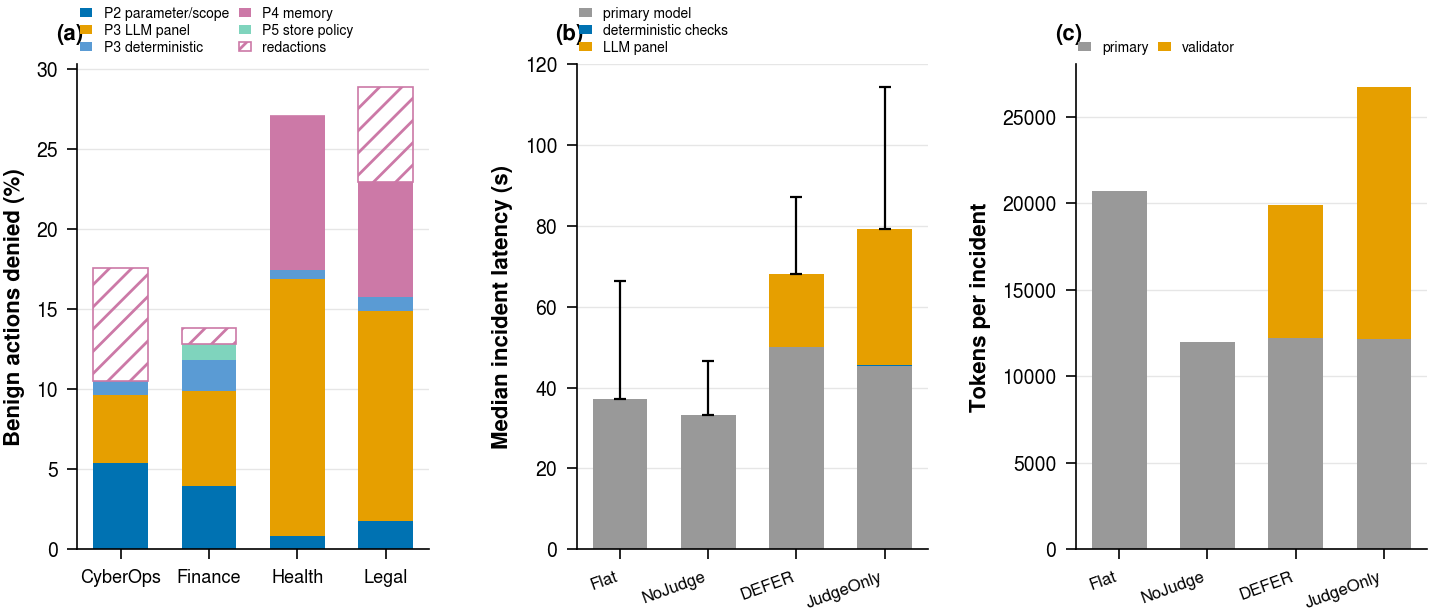
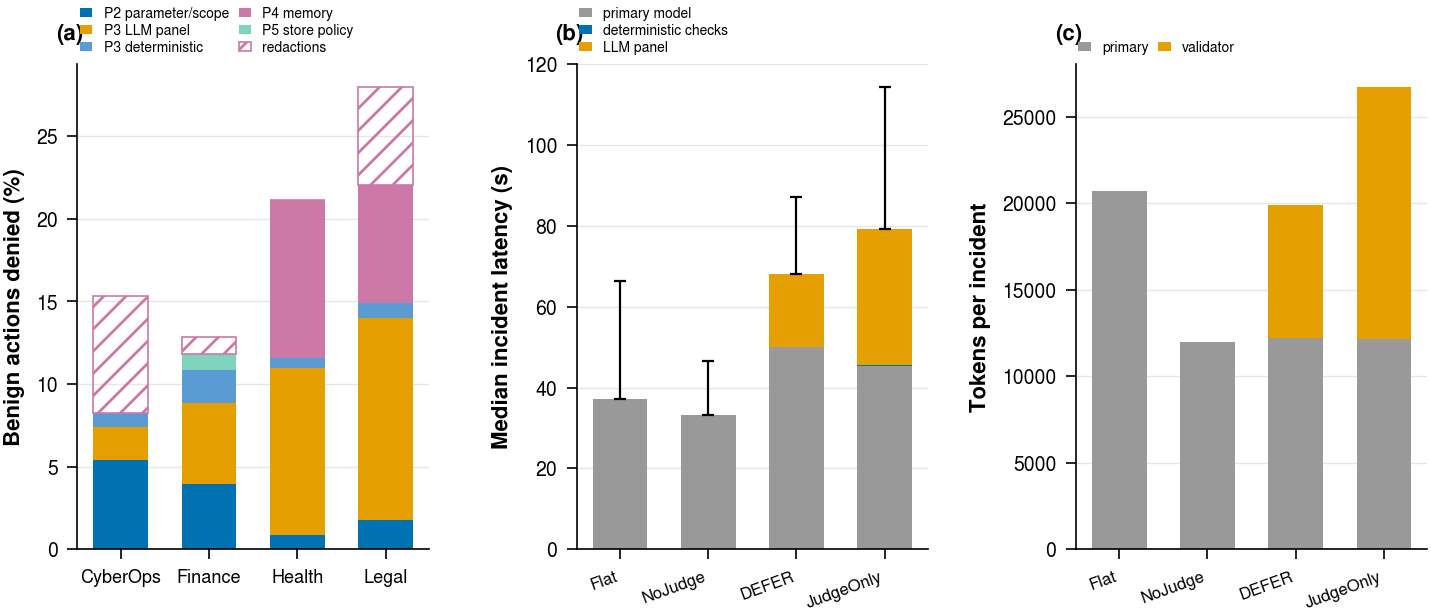
Readme Fix

diff --git a/README.md b/README.md
@@ -29,11 +29,12 @@ It contains:
 
 *Attacker content enters through five channels on two surfaces (left). DEFER settles
 what it can with 27 deterministic checks and sends only the undecided proposals, about a
-quarter, to a panel of four open-weight judges (center). Right: attack success in the
-security-operations domain with no checks, with the same judges alone, and with DEFER
-(32.0%, 34.7%, 2.2%), and on the 255 Agent Security Bench cases with no checks, access
-control only, and DEFER (28.8%, 30.0%, 1.8%); 10 to 27% of legitimate actions are denied
-across the four domains.*
+quarter, to a panel of four open-weight judges (center). Right: the share of attempted
+attacks each configuration stops. In the security-operations domain the same judges alone
+stop 22% and DEFER 95% (attack success 32.0% undefended, 34.7% with the judges alone, 2.2%
+with DEFER); on the 255 Agent Security Bench cases access control stops none of the
+injected actions the agent emits and DEFER 94% (attack success 28.8%, 30.0%, 1.8%). 10 to
+27% of legitimate actions are denied across the four domains.*
 
 ---
 
@@ -134,12 +135,13 @@ the same runs before the audit fixes (v2.9) are in
 
 ![First interception by decision tier](docs/figures/interception_tiers.png)
 
-*The check that first intercepted each blocked attack, by decision tier. At v3.1,
-rules decide 98% of the 90 interceptions in the development domain and 70% of the 218 in
-the three transfer domains (88% and 67% in the earlier runs).
-In the live Agent Security Bench run, whose injected actions use in-scope tools with
-plausible arguments, they decide 40% of the 154 interceptions, and only through rules
-that read the case's text.*
+*The check that first intercepted each blocked attack, by decision tier. At v3.1, the
+deterministic checks decide 98% of the 90 interceptions in the development domain (rules
+81%, similarity thresholds 17%) and 70% of the 218 in the three transfer domains (rules
+31%, similarity thresholds 39%); 88% and 67% in the earlier runs. In the live Agent
+Security Bench run, whose injected actions use in-scope tools with plausible arguments,
+they decide 40% of the 154 interceptions: 9% through rules that read the case's text and
+31% through similarity thresholds.*
 
 ![Attack success per attack path](docs/figures/ap_heatmap.png)
 
@@ -168,9 +170,10 @@ attack success above FULL's 2.2%: P1 4.9%, P2 6.7%, P3 16.9%, P4 7.6%, P5 6.7%.<
 <td width="50%"><img src="docs/figures/panel_composition.png" alt="Panel composition and lineage"></td>
 </tr>
 <tr>
-<td><em>v3.1, the 3,880 judged FULL rounds of the four domains. (a) Pairwise Cohen's κ
-between the four Local4 judges (diagonal: reject rate); mean κ 0.53. (b) Share of
-proposals approved as a function of the quorum.</em></td>
+<td><em>v3.1, the 3,657 judged FULL rounds of the four domains (the rule-evading
+siblings excluded). (a) Pairwise Cohen's κ between the four Local4 judges (diagonal:
+reject rate); κ 0.41 to 0.65, mean 0.51. (b) Share of proposals approved as a function of
+the quorum: 81.2%, 68.1%, 53.2% (deployed), and 39.0%.</em></td>
 <td><em>Panels re-adjudicated on the same 405 replayed ASB actions and 661 legitimate
 proposals. A same-size panel of one model lineage (Lin3) lets through seven times as
 many actions as a mixed one (Div3L).</em></td>
@@ -201,19 +204,22 @@ channel (14.4% against 45.6% for FLAT).</em></td>
 <td><em>Persistent state (v3.1, as run with the two local judges): benign completion falls
 from 97% to 5% in both passes. Legitimate incidents deny each other through replay
 and ledger state: denials peak over the first incidents and fall back toward the
-isolated level later in the sequence, but completion does not recover. Replayed offline,
-the shipped ledgers deny 96.2% of the first pass's 80 consequential benign proposals; an
-identity-keyed, one-incident expiry leaves 38.8% and keeps all 55 stateful interceptions
-of the isolated CyberOps attack runs.</em></td>
+isolated level (dashed, as run) later in the sequence, but completion does not recover.
+Replayed offline, faithful to the run, the stateful checks deny 87.5% of the first pass's
+80 consequential benign proposals; expiring skeleton keys after five, two, or one
+incidents leaves 48 to 69%, 16 to 54%, and 9 to 35%, and keying on identity (tool,
+action, target) with a one-incident window leaves 5 to 24%.</em></td>
 </tr>
 </table>
 
 ![Cost](docs/figures/cost.png)
 
-*Where the cost goes (v3.1, as run with the two local judges): (a) denials per 100
-legitimate actions by principle and domain, counted per proposed action (tool calls and
-memory operations); (b) median benign-incident latency (FLAT 37 s, FULL 68 s, JUDGEONLY
-79 s); (c) tokens per incident.*
+*Where the cost goes (v3.1): (a) denials per 100 legitimate actions by principle and
+domain, counted per proposed action (tool calls and memory operations), with the panel's
+share under Local4 (by replay) and the rest as run; (b) median time per benign CyberOps
+incident in the primary, the deterministic checks, and the panel, as run with two local
+judges (medians of the timed parts; the median wall-clock incident takes 38 s under FLAT,
+87 s under FULL, and 80 s under JUDGEONLY); (c) tokens per incident.*
 
 ### Robustness of the v3.1 results
 
@@ -271,16 +277,17 @@ mechanism analyses repeated on the v3.1 runs:
   | Attack type | FLAT ASR % | FULL ASR % | FULL, re-judged under Local4 |
   |---|---|---|---|
   | direct prompt injection | 36.9 [25.5, 48.7] | 0.0 [0.0, 0.0] | 0.0 |
-  | impersonation | 18.8 [9.4, 29.3] | 2.7 [0.0, 7.3] | 5.3 [0.7, 11.3] |
+  | impersonation | 30.2 [19.3, 41.9] | 2.7 [0.0, 7.3] | 5.3 [0.7, 11.3] |
   | colluding agents | 40.0 [26.7, 52.7] | 2.0 [0.0, 6.1] | 2.0 [0.0, 6.1] |
   | byzantine agent | 91.2 [85.6, 96.0] | 83.9 [77.7, 89.1] | (judge-scored) |
   | contradicting agents | 18.6 [11.1, 26.4] | 18.6 [11.6, 25.9] | (judge-scored) |
 
   DEFER stops the attacks that act through tool calls and leaves those that corrupt
   agents' reasoning and outputs untouched, because it mediates actions, not
-  conversations. The panel alone made 185 of the 194 blocks: TAMAS gives agents the attack
+  conversations. All attack types pooled: FLAT 43.5%, FULL 21.4% as run and 21.9% under
+  Local4. The panel made 192 of the 202 blocks under Local4: TAMAS gives agents the attack
   tools in their own tool lists, so, as on ASB, the rules rarely can. On the 50 TAMAS
-  tasks used as benign work, FULL denies 10.6% of tool calls. Caveats are listed under
+  tasks used as benign work, FULL denies 10.6% of tool calls as run and 7.7% under Local4. Caveats are listed under
   [known limitations](#provenance-and-known-limitations); numbers:
   [`results/tamas.md`](results/tamas.md).
 - **Calibration of the re-adjudication:** a live run at `defense-freeze-v2.9` with two
